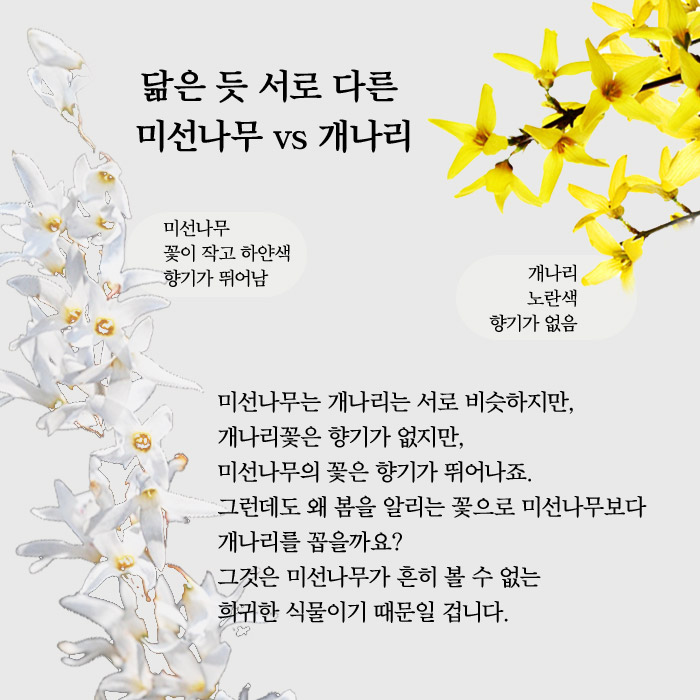
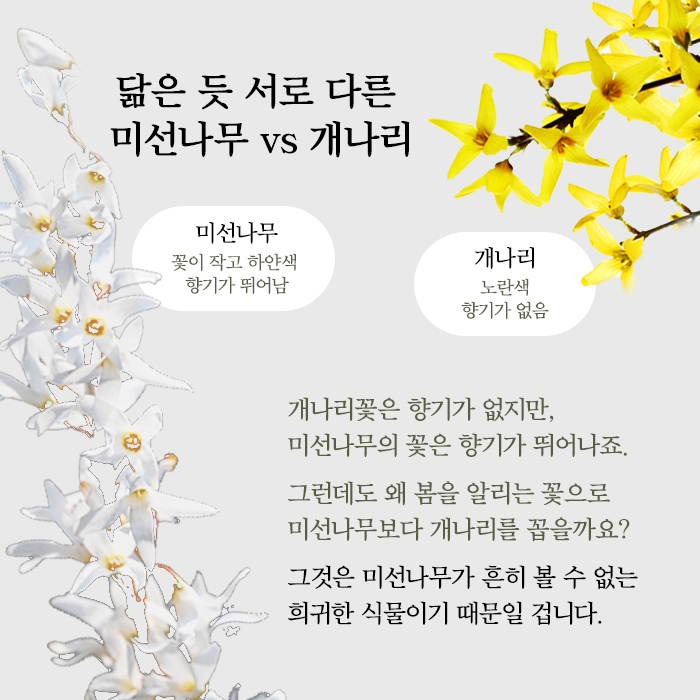
05

Changed region(s): [[0.0, 0.03, 0.93, 1.0], [0.66, 0.36, 0.84, 0.48]]

diff --git a/index_05.html b/index_05.html
@@ -92,13 +92,12 @@
                 향기가 뛰어남</p>
             <p>개나리 - 노란색
                 향기가 없음</p>
-            <p>미선나무는 개나리는 서로 비슷하지만,
-                    개나리꽃은 향기가 없지만, 
-                    미선나무의 꽃은 향기가 뛰어나죠.
-                    그런데도 왜 봄을 알리는 꽃으로 미선나무보다 
-                    개나리를 꼽을까요?
-                    그것은 미선나무가 흔히 볼 수 없는 
-                    희귀한 식물이기 때문일 겁니다.</p>
+            <p>개나리꽃은 향기가 없지만, 
+                미선나무의 꽃은 향기가 뛰어나죠.
+                그런데도 왜 봄을 알리는 꽃으로
+                미선나무보다 개나리를 꼽을까요?
+                그것은 미선나무가 흔히 볼 수 없는 
+                희귀한 식물이기 때문일 겁니다.</p>
             <h3>멸종위기의 특산식물 미선나무</h3>
             <p>미선나무는 우리나라에서만 자라는 아주 귀한 특산식물입니다.
                 멸종 위기 야생식물 2급으로 지정하여
@@ -125,13 +124,13 @@
                 여러  개의 꽃들이 함께 모여 달린다.</p>
             <p>잎 - 잎은 가장자리가 밋밋하고 잎자루가 짧다. 
                 잎자루는 두 줄로 마주 달린다.</p>
-                <p>가지 - 개나리와 같은 물푸레나무과로
-                    위로 높게 자라는 대신
+                <p>가지 - 개나리와 같은 물푸레나무과로 
                     옆으로 많은 가지를 만들어낸다.</p>
                     <p>열매 - 9월에 맺는 열매는 시과이고, 
                         2개의 종자가 들어 있다. 
                         둥글고 납작한 모양에 둘레에는 
                         날개가 있어 씨를 어미나무에서 멀리 보낼 수 있다.</p>
+                        <span>*시과란?열매의 한 종류</span>
             <h3>열매가 둥근 부채를 닮아
                 미선(尾扇)</h3>
             <p>미선나무의 미선은 
